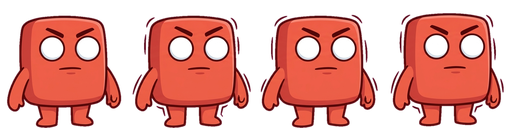
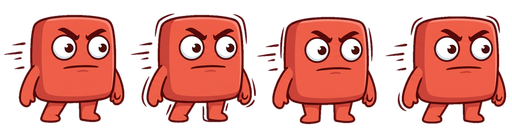
feat: bake pupils into sprites, remove dynamic pupil overlay
Regenerate all 5 sprites with pupils baked in (magenta chroma key).
Remove the dynamic pupil circle overlay code — it wasn't rendering
due to a y-down camera compatibility issue. Pupils are now part of
the sprite texture, simplifying the renderer significantly.

- Regenerated idle, charging, jumping, falling, landing with baked pupils
- Removed pupil geometry, materials, and update logic
- Simplified _updateExpression to only handle death/victory overlays
- Simplified _updateBlink to only force the closed-eyes frame

diff --git a/public/js/rendering/threejs/CharacterRenderer.js b/public/js/rendering/threejs/CharacterRenderer.js
@@ -3,16 +3,12 @@ import * as THREE from 'three';
 /**
  * Sprite-based Three.js character renderer.
  * Loads pre-rendered sprite sheet textures for each pose and swaps them
- * based on game state. Pupils are rendered as separate quads on top of
- * the sprite for dynamic eye tracking. Helmet variants are separate
- * sprite sheets swapped per planet.
+ * based on game state. Eyes/pupils are baked into the sprite sheets.
  *
  * Sprite sheets: 512×128 (4 frames of 128×128), RGBA transparent PNG.
- * Blank white eyes — pupils drawn in realtime.
  */
 
 const ASSET_BASE = '/assets/character/';
-const PUPIL_COLOR = 0x2a2a2a;
 const STAR_EYE_COLOR = 0xffd700;
 const AFTERIMAGE_COUNT = 4;
 
@@ -25,12 +21,6 @@ const ACTION_FRAME_DURATION = 0.12;
 // because the sprite frame (128×128) has padding around the character
 const SPRITE_W = 64;
 const SPRITE_H = 64;
-
-// Pupil positioning relative to sprite center (tuned to sprite eye locations)
-const EYE_OFFSET_X = 9; // distance from center to each eye
-const EYE_OFFSET_Y = -9; // eyes above center (negative = up in y-down camera)
-const PUPIL_RADIUS = 4;
-const PUPIL_Z = 2; // in front of sprite
 
 /** Pose names that map to sprite sheet files. */
 const POSES = ['idle', 'charging', 'jumping', 'falling', 'landing'];
@@ -55,28 +45,12 @@ export class CharacterRenderer {
     this._spriteMesh = new THREE.Mesh(geom, this._spriteMat);
     this.group.add(this._spriteMesh);
 
-    // --- Pupil overlays (two small circles) ---
-    this._pupils = [];
-    this._pupilGeom = new THREE.CircleGeometry(PUPIL_RADIUS, 12);
-    for (let side = -1; side <= 1; side += 2) {
-      const mat = new THREE.MeshBasicMaterial({
-        color: PUPIL_COLOR,
-        side: THREE.DoubleSide,
-        depthTest: false,
-      });
-      const mesh = new THREE.Mesh(this._pupilGeom, mat);
-      mesh.position.set(side * EYE_OFFSET_X, EYE_OFFSET_Y, PUPIL_Z);
-      mesh.renderOrder = 10; // ensure pupils render on top of sprite
-      this.group.add(mesh);
-      this._pupils.push({ mesh, mat, side });
-    }
-
     // --- Death X-eyes overlay ---
     this._deathEyeGroups = [];
     for (let side = -1; side <= 1; side += 2) {
       const xGroup = new THREE.Group();
-      xGroup.position.set(side * EYE_OFFSET_X, EYE_OFFSET_Y, PUPIL_Z);
-      const xMat = new THREE.MeshBasicMaterial({ color: PUPIL_COLOR });
+      xGroup.position.set(side * 9, -9, 2);
+      const xMat = new THREE.MeshBasicMaterial({ color: 0x2a2a2a });
       for (let r = 0; r < 2; r++) {
         const bar = new THREE.Mesh(new THREE.PlaneGeometry(7, 1.5), xMat);
         bar.rotation.z = r === 0 ? Math.PI / 4 : -Math.PI / 4;
@@ -91,7 +65,7 @@ export class CharacterRenderer {
     this._starEyeGroups = [];
     for (let side = -1; side <= 1; side += 2) {
       const starGroup = new THREE.Group();
-      starGroup.position.set(side * EYE_OFFSET_X, EYE_OFFSET_Y, PUPIL_Z);
+      starGroup.position.set(side * 9, -9, 2);
       const starMesh = this._createStarMesh(4, STAR_EYE_COLOR);
       starGroup.add(starMesh);
       starGroup.visible = false;
@@ -260,7 +234,7 @@ export class CharacterRenderer {
     }
 
     // --- Update pupils / overlays ---
-    this._updateExpression(expression, character, time);
+    this._updateExpression(expression);
 
     // --- Charge shake ---
     if (expression === 'charge-high') {
@@ -326,80 +300,24 @@ export class CharacterRenderer {
   }
 
   /**
-   * Update pupil positions, death/victory overlays based on expression.
+   * Update death/victory overlays based on expression.
    */
-  _updateExpression(expression, character, _time) {
-    const needsUpdate = expression !== this._currentExpression || expression === 'idle';
-    if (!needsUpdate && expression !== 'charge-high') return;
+  _updateExpression(expression) {
+    if (expression === this._currentExpression) return;
     this._currentExpression = expression;
 
-    // Reset overlays
     for (const xg of this._deathEyeGroups) xg.visible = false;
     for (const sg of this._starEyeGroups) sg.visible = false;
 
-    let pupilOffX = 0;
-    let pupilOffY = 0;
-    let pupilScale = 1;
-    let showPupils = true;
-
-    switch (expression) {
-      case 'death':
-        showPupils = false;
-        for (const xg of this._deathEyeGroups) xg.visible = true;
-        break;
-      case 'victory':
-        showPupils = false;
-        for (const sg of this._starEyeGroups) sg.visible = true;
-        break;
-      case 'idle':
-        pupilOffX = (character.pupilDriftX || 0) * 0.3;
-        pupilOffY = (character.pupilDriftY || 0) * 0.3;
-        break;
-      case 'charge-low':
-        pupilScale = 0.8;
-        break;
-      case 'charge-mid':
-        pupilScale = 0.6;
-        break;
-      case 'charge-high':
-        pupilScale = 0.4;
-        pupilOffX = (Math.random() - 0.5) * 1.2;
-        pupilOffY = (Math.random() - 0.5) * 1.2;
-        break;
-      case 'rising':
-        pupilOffY = -0.5;
-        break;
-      case 'peak':
-        pupilOffY = 0.6;
-        break;
-      case 'falling':
-        pupilScale = 0.7;
-        pupilOffY = 0.5;
-        break;
-      case 'sliding':
-        pupilOffX = character._slideVx > 0 ? 0.6 : character._slideVx < 0 ? -0.6 : 0;
-        break;
-      case 'landing':
-        pupilScale = 0.8;
-        break;
-      default:
-        break;
-    }
-
-    for (const pupil of this._pupils) {
-      pupil.mesh.visible = showPupils;
-      if (showPupils) {
-        pupil.mesh.position.x = pupil.side * EYE_OFFSET_X + pupilOffX;
-        pupil.mesh.position.y = EYE_OFFSET_Y + pupilOffY;
-        pupil.mesh.scale.setScalar(pupilScale);
-      }
+    if (expression === 'death') {
+      for (const xg of this._deathEyeGroups) xg.visible = true;
+    } else if (expression === 'victory') {
+      for (const sg of this._starEyeGroups) sg.visible = true;
     }
   }
 
   /**
-   * Eye blink — hide pupils briefly.
-   * The sprite sheet frame 3 already has closed eyes, so we just need
-   * to force frame 3 and hide pupils during blink.
+   * Eye blink — force the closed-eyes frame from the sprite sheet.
    */
   _updateBlink(character, expression) {
     if (
@@ -408,19 +326,9 @@ export class CharacterRenderer {
       !character.victoryActive &&
       (expression === 'idle' || expression === 'sliding')
     ) {
-      // Force the blink frame (frame index 2 = third frame with closed eyes)
       this._frameIndex = 2;
-      const texKey = this._currentPose;
-      const tex = this._textures[texKey];
+      const tex = this._textures[this._currentPose];
       if (tex) tex.offset.x = 2 * 0.25;
-
-      // Hide pupils during blink
-      const halfDur = 0.075;
-      const bp = character.blinkPhase;
-      const blinkScale = bp > halfDur ? (bp - halfDur) / halfDur : 1 - bp / halfDur;
-      for (const pupil of this._pupils) {
-        pupil.mesh.visible = blinkScale > 0.3;
-      }
     }
   }
 
@@ -466,11 +374,10 @@ export class CharacterRenderer {
     this._textures = {};
 
     // Dispose shared geometries once (used by multiple meshes)
-    if (this._pupilGeom) this._pupilGeom.dispose();
     if (this._afterGeom) this._afterGeom.dispose();
 
     // Dispose meshes in group, skipping shared geometries
-    const shared = new Set([this._pupilGeom, this._afterGeom].filter(Boolean));
+    const shared = new Set([this._afterGeom].filter(Boolean));
     this.group.traverse((obj) => {
       if (obj.geometry && !shared.has(obj.geometry)) obj.geometry.dispose();
       if (obj.material) {
